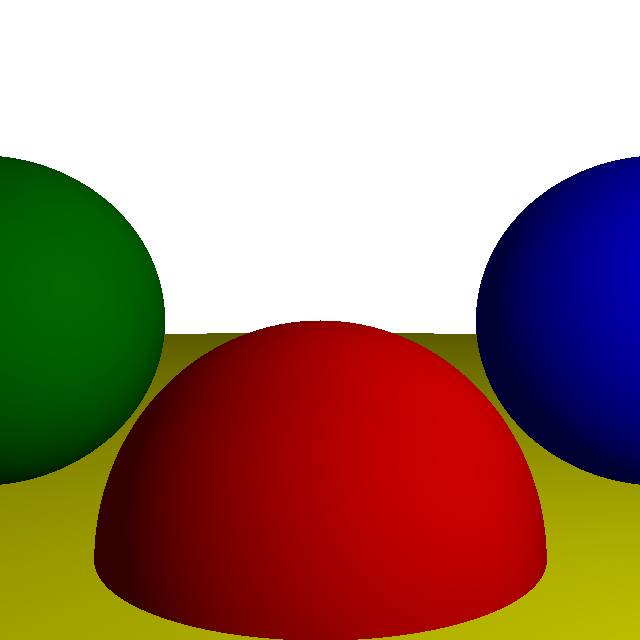
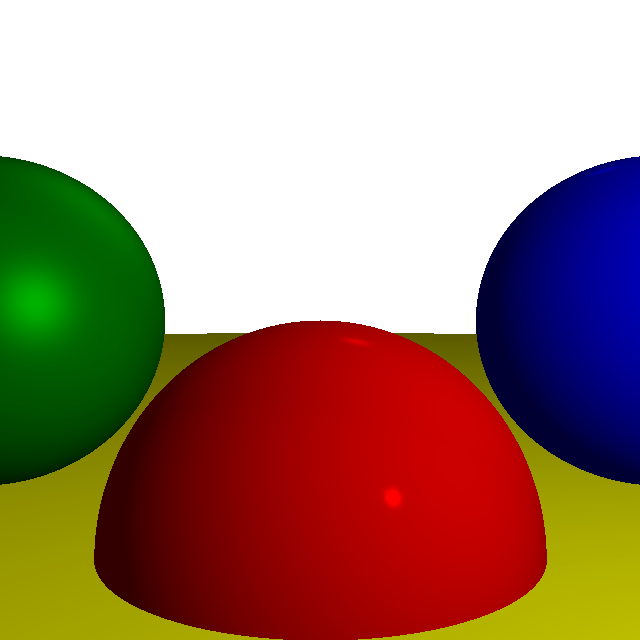
Added Specular Reflection

diff --git a/Part I - Raytracing/Ch03 - Light/Light/Program.cs b/Part I - Raytracing/Ch03 - Light/Light/Program.cs
@@ -1,4 +1,5 @@
 using System.Drawing;
+using System.Numerics;
 using static Light;
 using static Vec3;
 
@@ -25,10 +26,10 @@ class Program
     //SPHERES TO BE RENDERED
     static Sphere[] spheresList =
     {
-        new Sphere(new Vec3(0, -1, 3), 1, Color.Red),
-        new Sphere(new Vec3(2, 0, 4), 1, Color.Blue),
-        new Sphere(new Vec3(-2, 0, 4), 1, Color.Green),
-        new Sphere(new Vec3(0, -5001, 0), 5000, Color.Yellow)
+        new Sphere(new Vec3(0, -1, 3), 1, Color.Red, 500),
+        new Sphere(new Vec3(2, 0, 4), 1, Color.Blue, 500),
+        new Sphere(new Vec3(-2, 0, 4), 1, Color.Green, 10),
+        new Sphere(new Vec3(0, -5001, 0), 5000, Color.Yellow, 1000)
     };
 
     static Light[] lightsList =
@@ -94,7 +95,7 @@ class Program
             Vec3 N = P - closestSphere.Value.centerPoint;
             N = N * (1 / N.Length());
 
-            float lighting = ComputeLighting(P, N);
+            float lighting = ComputeLighting(P, N, -direction, closestSphere.Value.specular);
 
             int r = (int)(closestSphere.Value.color.R * lighting);
             int g = (int)(closestSphere.Value.color.G * lighting);
@@ -132,11 +133,12 @@ class Program
         return (t1, t2);
     }
 
-    static float ComputeLighting(Vec3 point, Vec3 normal)
+    static float ComputeLighting(Vec3 point, Vec3 normal, Vec3 V, float specularity)
     {
-        float i = 0f;
+        float i = 0f; //intensity of light
 
         Vec3 L;
+        Vec3 reflection;
 
         foreach (Light light in lightsList)
         {
@@ -160,6 +162,18 @@ class Program
                 if (dotProductNormalAndL > 0)
                 {
                     i = dotProductNormalAndL * (1 / (normal.Length() * L.Length())) * light.intensity + i;
+                }
+
+                if (specularity != -1)
+                {
+                    reflection = normal * (float)2 * dotProductNormalAndL - L;
+                    float dotProdcutReflectionAndL = reflection * V;
+
+                    if (dotProdcutReflectionAndL > 0)
+                    {
+                        //MIGHT NEED TO CAST .POW as a float
+                        i = (float)Math.Pow(dotProdcutReflectionAndL / (reflection.Length() * V.Length()), specularity) * light.intensity + i;
+                    }
                 }
             }
         }

diff --git a/Part I - Raytracing/Ch03 - Light/Light/Sphere.cs b/Part I - Raytracing/Ch03 - Light/Light/Sphere.cs
@@ -5,11 +5,13 @@ public struct Sphere
     public Vec3 centerPoint;
     public float radius;
     public Color color;
+    public float specular;
 
-    public Sphere(Vec3 centerP, float r, Color c)
+    public Sphere(Vec3 centerP, float r, Color c, float s)
     {
         centerPoint = centerP;
         radius = r;
         color = c;
+        specular = s;
     }
 }
